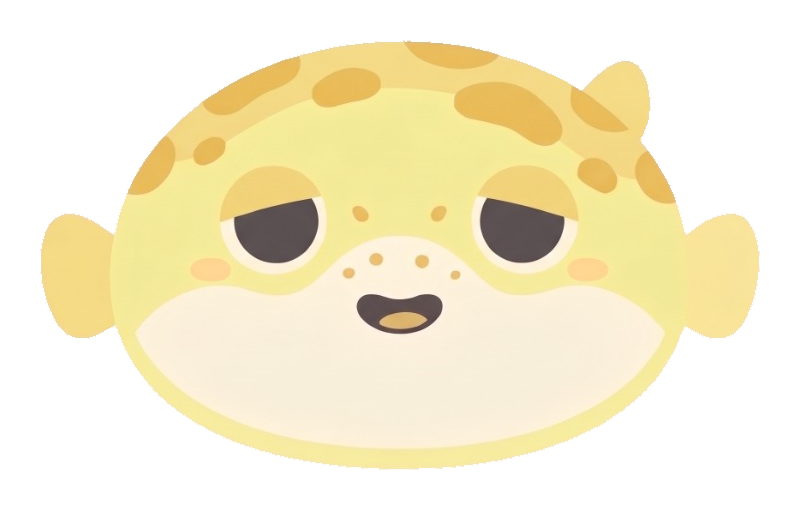
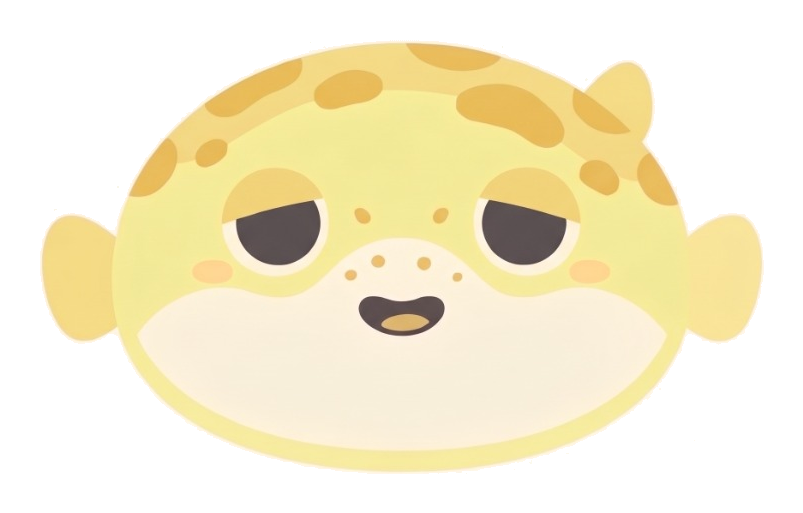
Fix mascot cutout: keep the belly, stop stretching static imgs
The bg flood-fill treated the cream belly as background (same lightness)
and removed the bottom half of the fish. It now also requires a neutral
green-blue gap, which separates the yellow belly from the gray backdrop.
Static mascot imgs get object-fit: contain since the art isn't square.

diff --git a/src/app/globals.css b/src/app/globals.css
@@ -725,6 +725,11 @@ label {
 
 /* ---------- puffer gauge ---------- */
 
+/* Mascot art isn't square — letterbox inside fixed-size <img> boxes. */
+img[src*="/mascot/"] {
+  object-fit: contain;
+}
+
 .puffer {
   --pscale: 1;
   display: inline-flex;

diff --git a/scripts/remove-bg.py b/scripts/remove-bg.py
@@ -14,6 +14,7 @@ import numpy as np
 from PIL import Image
 
 TOL = 42          # distance from bg color that counts as background
+GB_TOL = 12       # green-blue gap: belly is cream-yellow, bg is neutral gray
 SOFT_TOL = 14     # extra soft ring outside the fill, feathered by distance
 
 
@@ -27,7 +28,10 @@ def cut(src: str, dst: str, pad_ratio: float = 0.04) -> None:
     bg = np.median(border, axis=0)
     dist = np.sqrt(((a - bg) ** 2).sum(axis=2))
 
-    cand = dist < TOL
+    # Background is light AND neutral; the cream belly is the same lightness
+    # but yellow (higher g-b), so it can't be flooded away.
+    gb = a[:, :, 1] - a[:, :, 2]
+    cand = (dist < TOL) & (gb < GB_TOL)
     seen = np.zeros((h, w), bool)
     dq = deque()
     for x in range(w):
